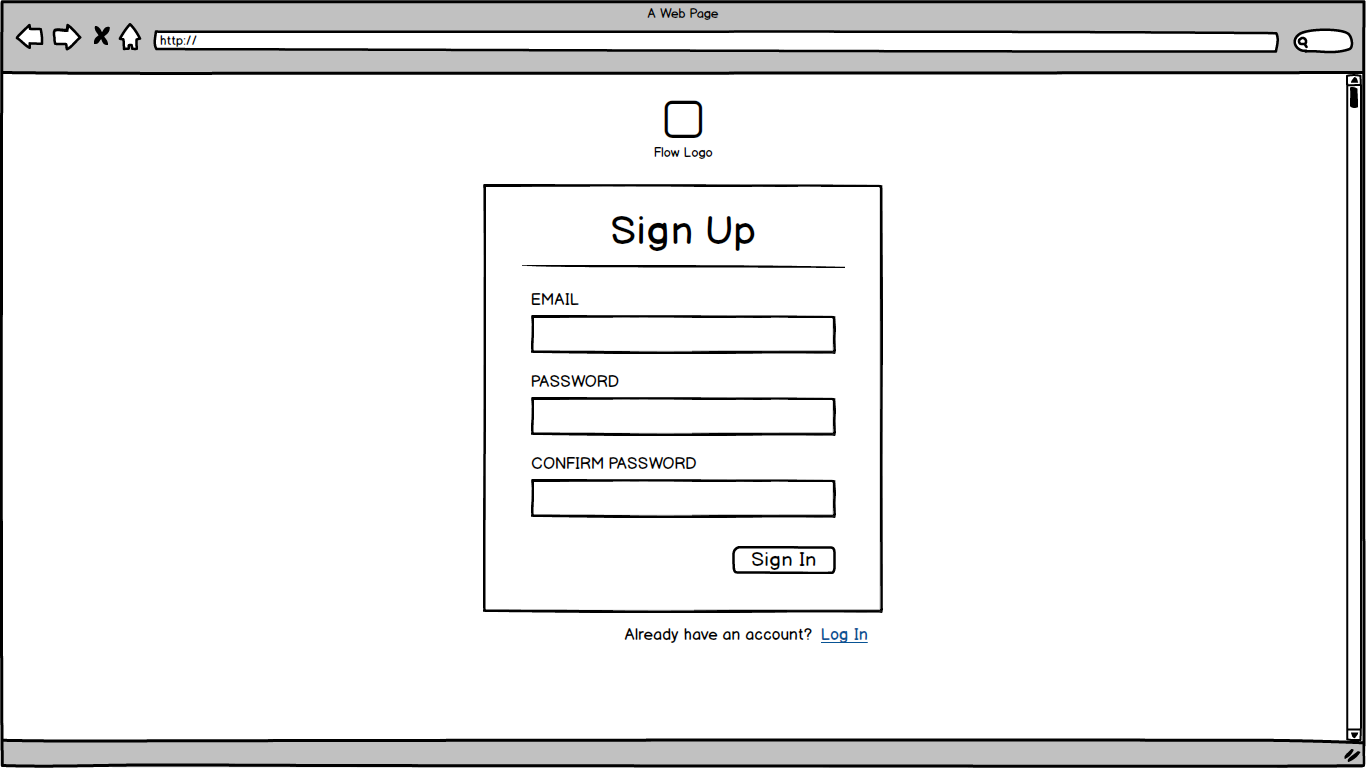
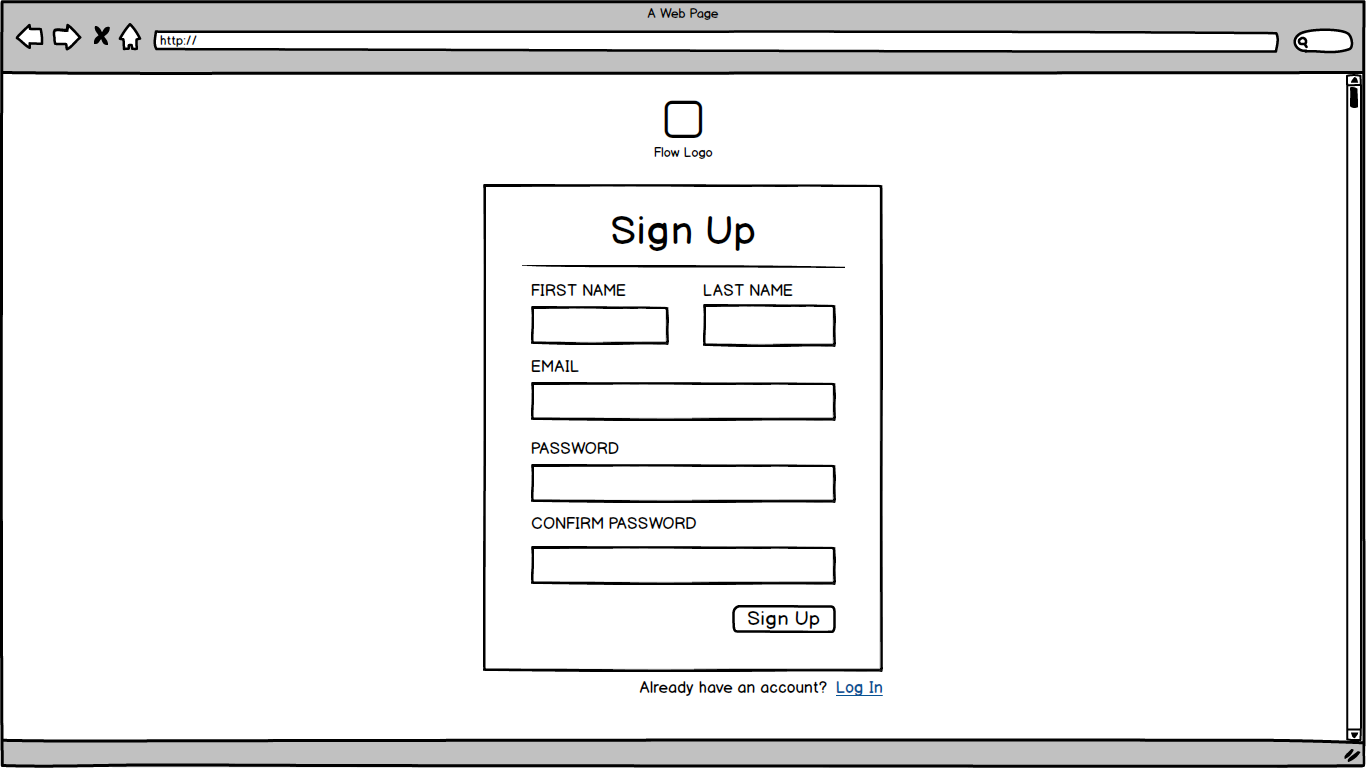
Update development docs

Changed region(s): [[0.3382, 0.3438, 0.6457, 0.9062]]

diff --git a/docs/schema.md b/docs/schema.md
@@ -4,17 +4,21 @@
 column name     | data type | details
 ----------------|-----------|-----------------------
 id              | integer   | not null, primary key
-username        | string    | not null, indexed, unique
 email           | string    | not null, indexed, unique
+first_name      | string    | not null
+last_name       | string    | not null
 password_digest | string    | not null
 session_token   | string    | not null, indexed, unique
-
+created_at      | datetime  | not null
+updated_at      | datetime  | not null
 
 ## workspaces
 column name     | data type | details
 ----------------|-----------|-----------------------
 id              | integer   | not null, primary key
-title             | string    | not null, indexed, unique
+title           | string    | not null, indexed, unique
+created_at      | datetime  | not null
+updated_at      | datetime  | not null
 
 ## workspacings
 column name     | data type | details
@@ -24,26 +28,30 @@ user_id         | integer   | not null, indexed
 workspace_id    | integer   | not null, indexed
 
 ## projects
-column name | data type | details
-------------|-----------|-----------------------
-id          | integer   | not null, primary key
-title       | string    | not null
-description | string    | not null
-workspace_id| integer   | not null, indexed
+column name   | data type | details
+--------------|-----------|-----------------------
+id            | integer   | not null, primary key
+title         | string    | not null
+description   | string    | not null
+workspace_id  | integer   | not null, indexed
+created_at    | datetime  | not null
+updated_at    | datetime  | not null
 
 ## tasks
-column name | data type | details
-------------|-----------|-----------------------
-id          | integer   | not null, primary key
-title       | string    | not null, indexed
-description | string    |
-due_date    | date      |
-author_id   | integer   | not null, indexed
-assignee_id | integer   | indexed
-project_id  | integer   | not null, indexed
-workspace_id| integer   | not null, indexed
-completed   | boolean   |
-completed_at| datetime  |
+column name   | data type | details
+--------------|-----------|-----------------------
+id            | integer   | not null, primary key
+title         | string    | not null, indexed
+description   | string    |
+due_date      | date      |
+author_id     | integer   | not null, indexed
+assignee_id   | integer   | indexed
+project_id    | integer   | not null, indexed
+workspace_id  | integer   | not null, indexed
+completed     | boolean   |
+completed_at  | datetime  |
+created_at    | datetime  | not null
+updated_at    | datetime  | not null
 
 ## comments
 column name | data type | details
@@ -52,3 +60,5 @@ id          | integer   | not null, primary key
 body        | string    | not null
 task_id     | integer   | not null, indexed
 author_id   | integer   | not null, indexed
+created_at  | datetime  | not null
+updated_at  | datetime  | not null

diff --git a/docs/README.md b/docs/README.md
@@ -18,7 +18,6 @@ By April 28, 2017, this app will, at a minimum, satisfy the following criteria:
 - [ ] Projects
 - [ ] Tasks
 - [ ] Comments on tasks
-- [ ] User Profiles
 - [ ] Hosting on Heroku
 - [ ] Production README
 - [ ] Smooth, bug-free navigation
@@ -60,14 +59,11 @@ edited and destroyed through the API.
 **Objective:** Tasks belong to Projects. Tasks can be created, read, edited and destroyed through
 the API. Tasks are displayed in lists.
 
-### Phase 5: Comments on tasks (1 days)
+### Phase 5: Comments on tasks (2 days, W2 F 6pm)
 
 **Objective:** Comments belong to Tasks. Comments can be created and read.
 
-### Phase 6: User Profiles (1 days, W2 F 6pm)
-
-**Objective:** Users are displayed by their workspace.
-
 ### Bonus Features (TBD)
-- [ ] Search tasks by title and description
+- [ ] User Profiles
 - [ ] Calendar
+- [ ] Search tasks by title and description

diff --git a/docs/sample-state.md b/docs/sample-state.md
@@ -2,7 +2,9 @@
 {
   currentUser: {
     id: 1,
-    username: "app-academy"
+    email: "robert@westworldd.com"
+    first_name: "Robert"
+    last_name: "Ford"
   },
   forms: {
     signUp: {errors: []},
@@ -13,14 +15,16 @@
   workspaces: {
     1: {
       id: 1,
-      title: 'initial workspace'
+      title: 'Westworld'
+    }
   },
   projects: {
     1: {
       id: 1,
-      title: 'First Project',
+      title: 'Construct new narrative',
       description: "",
       workspace_id: 1
+    }
   },
   tasks: {
     1: {
@@ -37,6 +41,8 @@
           body: "Comment"
           task_id: 1,
           author_id: 1,
+        }
+      }
     }
   }
 }
